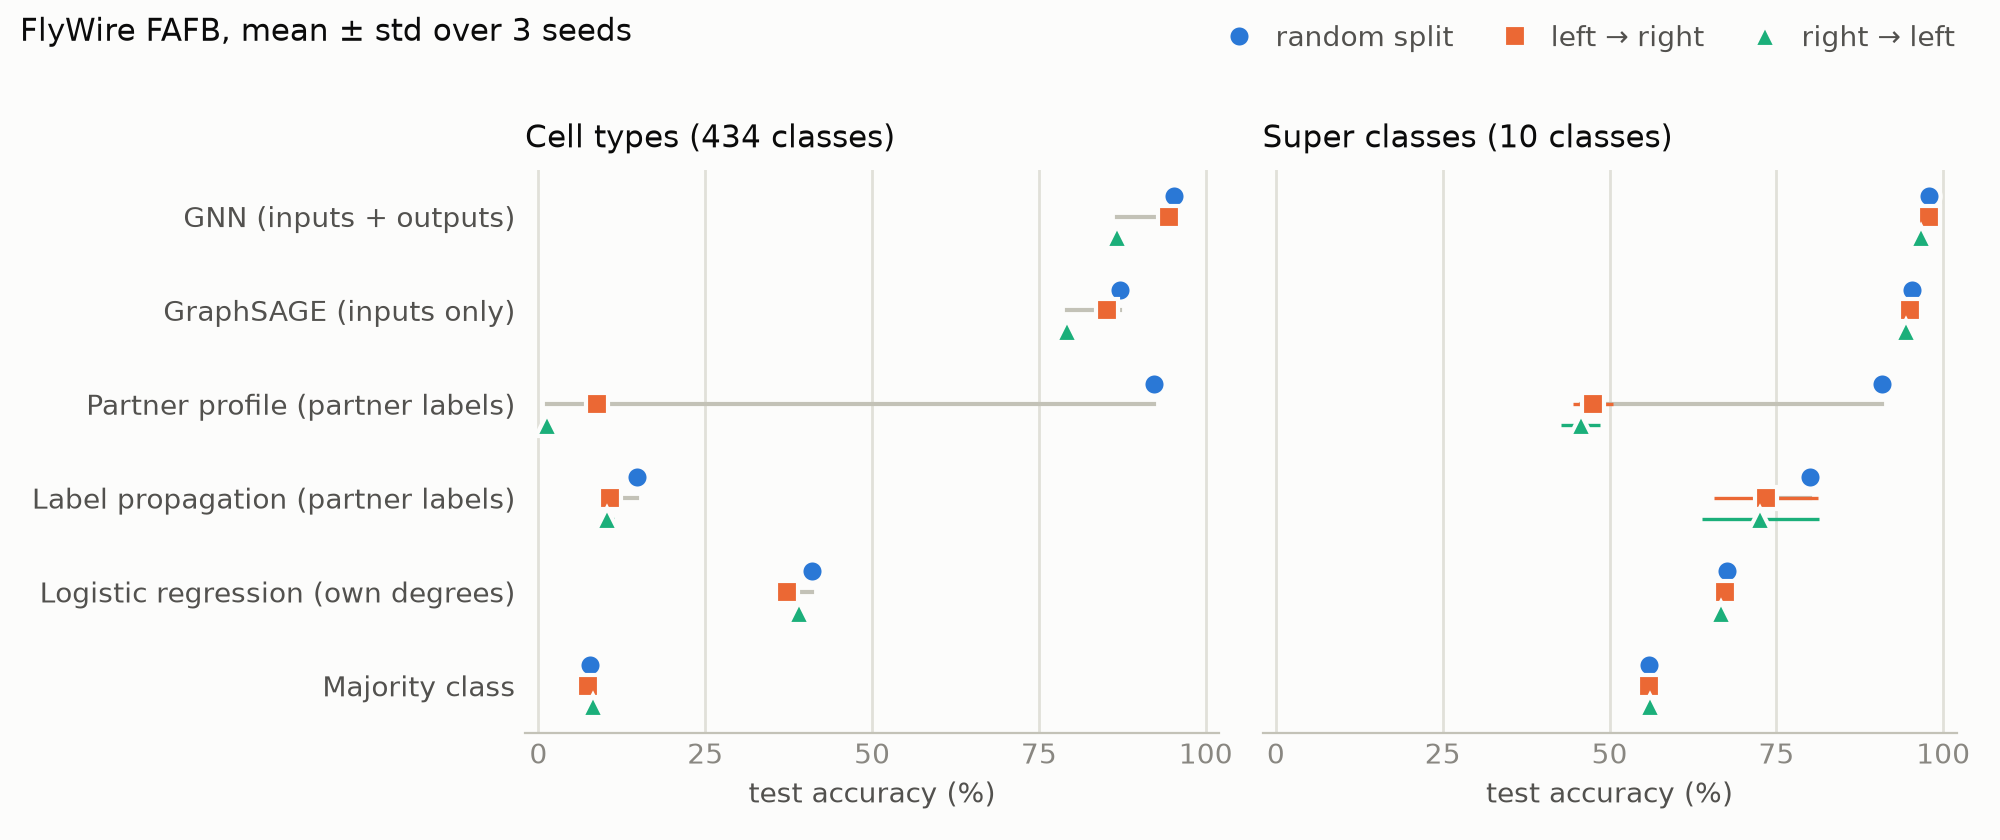
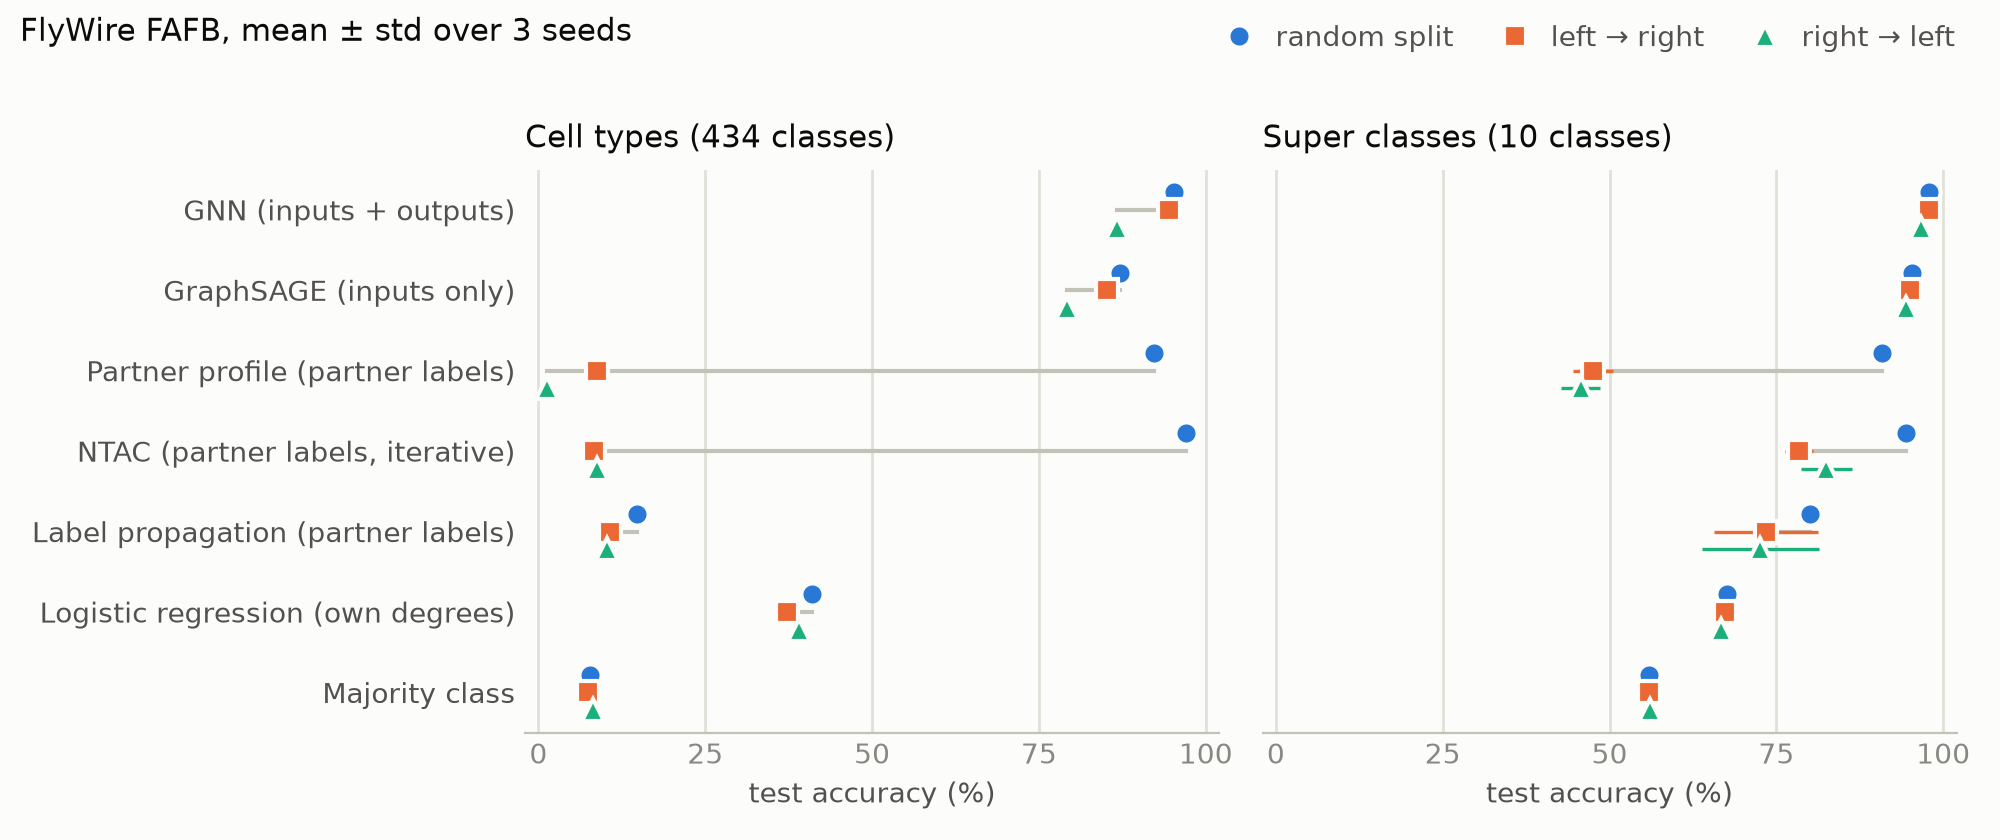
Report NTAC results in README, figure and literature review
On the random split NTAC is the best cell-type method (97.0 vs. 95.3 %
for the GNN, equal macro-F1); on an unlabeled hemisphere it drops to
8-9 % on cell types and 78-82 % on super classes (91 % at its best of 40
steps), while the GNN keeps 87-98 %. The README findings now say that
anonymous wiring comes close to partner identity rather than beating it,
cite Dir-SAGE for the layer and the known underdetection of photoreceptor
synapses for the right-to-left gap.

diff --git a/README.md b/README.md
@@ -26,8 +26,8 @@ FlyWire (FAFB) and MCNS data are released under CC-BY. Raw files are **not** in 
 
 - **Graph:** neurons are nodes; directed edges pre → post, weighted by synapse count (Codex FAFB v783, which keeps connections with ≥ 5 synapses). Raw tables are cleaned once and cached as Parquet.
 - **Labels:** `super_class` (10 classes) and `cell_type`, restricted to types with ≥ 20 neurons (434 types, 78 % of neurons).
-- **GNN** (`train_gnn.py`, model in `flybrain/models.py`): input features are six degree / synapse-count statistics per neuron, so the model sees anonymous wiring structure and never the labels of other neurons. Each layer averages separately over presynaptic inputs and postsynaptic outputs, weighted by synapse count. Configs: `configs/default.yaml` (super_class: 4 layers, 1000 epochs), `configs/cell_type.yaml` (3 layers, 300 epochs, class-weighted loss); depth and options were chosen on validation.
-- **Baselines** (`baselines.py`, `baseline_logreg.py`), ordered by the information they use: majority class; logistic regression on a neuron's own degree features; label propagation (connected neurons share a label); partner profile, i.e. logistic regression on the share of a neuron's synapses per partner class, using the labels of training neurons, which is what connectivity-based cell typing compares; plain GraphSAGE (inputs only, unweighted, same depth as the GNN).
+- **GNN** (`train_gnn.py`, model in `flybrain/models.py`): input features are six degree / synapse-count statistics per neuron, so the model sees anonymous wiring structure and never the labels of other neurons. Each layer averages separately over presynaptic inputs and postsynaptic outputs, weighted by synapse count; this is Dir-SAGE (Rossi et al., 2023) with synapse-weighted means. Configs: `configs/default.yaml` (super_class: 4 layers, 1000 epochs), `configs/cell_type.yaml` (3 layers, 300 epochs, class-weighted loss); depth and options were chosen on validation.
+- **Baselines** (`baselines.py`, `baseline_logreg.py`), ordered by the information they use: majority class; logistic regression on a neuron's own degree features; label propagation (connected neurons share a label); partner profile, i.e. logistic regression on the share of a neuron's synapses per partner class, using the labels of training neurons, which is what connectivity-based cell typing compares; NTAC (Schwartzman et al., 2026), which gives each neuron the label of the labeled neuron with the most similar partner-type synapse counts and then re-labels partners iteratively (memory-lean, deterministic reimplementation in `flybrain/ntac.py`, checked step by step against the `ntac` package); plain GraphSAGE (inputs only, unweighted, same depth as the GNN).
 - **Splits:** `random` (stratified 70 / 15 / 15) and `left_right` / `right_left` (train and validate on one hemisphere, test on the other).
 - **Model selection:** hyperparameters and the training epoch are chosen by validation macro-F1; the test set is only used for the final numbers.
 - **Benchmark:** `benchmark.py` runs every method on every label and split for three seeds and writes `results/benchmark/summary.md`. All runs log config, metrics and per-neuron predictions to `results/<run_name>/`.
@@ -53,11 +53,11 @@ CPU works by default; CUDA is used automatically when available.
 
 ## Results
 
-FlyWire FAFB v783, test accuracy (%) / macro-F1, mean ± std over 3 seeds, produced by `benchmark.py` (baselines on CPU at commit `2000b7b`, GNN rows on a Kaggle T4 GPU at `343125f`). Hemisphere columns: trained on the first hemisphere, tested on the second.
+FlyWire FAFB v783, test accuracy (%) / macro-F1, mean ± std over 3 seeds, produced by `benchmark.py` (baselines on CPU at commit `2000b7b`, NTAC on CPU at `c54198c`, GNN rows on a Kaggle T4 GPU at `343125f`). Hemisphere columns: trained on the first hemisphere, tested on the second.
 
 <picture>
   <source media="(prefers-color-scheme: dark)" srcset="docs/benchmark_dark.png">
-  <img alt="Test accuracy per method and split. The GNN stays at 87 to 98 percent on every split; the partner-profile baseline reaches 91 to 92 percent on the random split but falls to 1 to 9 percent (cell types) and about 46 percent (super classes) when tested on the unlabeled hemisphere." src="docs/benchmark_light.png">
+  <img alt="Test accuracy per method and split. The GNN stays at 87 to 98 percent on every split. Methods that read partner labels (partner profile, NTAC) reach 91 to 97 percent on the random split but fall to 1 to 9 percent on cell types and 46 to 82 percent on super classes when tested on the unlabeled hemisphere." src="docs/benchmark_light.png">
 </picture>
 
 Each dot is one split (mean over seeds, whiskers = std); the grey line spans a method's best and worst split. Figure: `experiments/b_gnn_celltypes/plot_benchmark.py`.
@@ -70,8 +70,9 @@ Each dot is one split (mean over seeds, whiskers = std); the grey line spans a m
 | Logistic regression (own degrees) | 40.9 ± 0.2 / 0.12 | 37.3 ± 0.0 / 0.09 | 39.0 ± 0.1 / 0.11 |
 | Label propagation | 14.7 ± 0.2 / 0.28 | 10.7 ± 1.0 / 0.19 | 10.3 ± 1.0 / 0.20 |
 | Partner profile (partner labels) | 92.2 ± 0.9 / 0.79 | 8.7 ± 0.0 / 0.10 | 1.2 ± 0.0 / 0.10 |
+| NTAC (partner labels, iterative) | **97.0 ± 0.2 / 0.93** | 8.4 ± 0.1 / 0.20 | 8.8 ± 0.5 / 0.19 |
 | GraphSAGE | 87.1 ± 0.3 / 0.77 | 85.2 ± 0.3 / 0.72 | 79.2 ± 0.2 / 0.69 |
-| **GNN (inputs + outputs, weighted)** | **95.3 ± 0.2 / 0.93** | **94.5 ± 0.9 / 0.90** | **86.7 ± 1.0 / 0.87** |
+| **GNN (inputs + outputs, weighted)** | 95.3 ± 0.2 / **0.93** | **94.5 ± 0.9 / 0.90** | **86.7 ± 1.0 / 0.87** |
 
 **super_class** (10 classes)
 
@@ -81,17 +82,20 @@ Each dot is one split (mean over seeds, whiskers = std); the grey line spans a m
 | Logistic regression (own degrees) | 67.6 ± 0.4 / 0.31 | 67.2 ± 0.0 / 0.32 | 66.7 ± 0.0 / 0.32 |
 | Label propagation | 80.1 ± 0.1 / 0.30 | 73.4 ± 7.8 / 0.22 | 72.6 ± 8.8 / 0.21 |
 | Partner profile (partner labels) | 90.9 ± 0.1 / 0.60 | 47.6 ± 3.0 / 0.28 | 45.7 ± 3.0 / 0.23 |
+| NTAC (partner labels, iterative) | 94.4 ± 0.3 / 0.78 | 78.4 ± 2.1 / 0.49 | 82.4 ± 3.8 / 0.58 |
 | GraphSAGE | 95.3 ± 0.0 / 0.62 | 95.1 ± 0.3 / 0.63 | 94.4 ± 0.2 / 0.63 |
 | **GNN (inputs + outputs, weighted)** | **97.9 ± 0.1 / 0.85** | **97.9 ± 0.1 / 0.84** | **96.6 ± 0.0 / 0.76** |
 
 Findings:
 
-- **Anonymous wiring identifies neurons better than partner identities do.** On cell types, the GNN beats the partner profile (95.3 vs. 92.2 %), most clearly on rare types (macro-F1 0.93 vs. 0.79), without seeing any partner's label.
-- **Only the anonymous model works on an unlabeled hemisphere.** In the hemisphere splits the median test neuron has no synapses to a labeled partner (optic-lobe circuits stay on their side), so the partner profile collapses, while the GNN keeps 87–98 %.
+- **With labeled partners, partner identity is hard to beat; anonymous wiring comes close.** On the random split NTAC is the best cell-type method (97.0 vs. 95.3 % for the GNN, equal macro-F1 0.93), while the GNN is best on super classes (97.9 vs. 94.4 %). The GNN gets there without seeing any partner's label.
+- **Only the anonymous model works on an unlabeled hemisphere.** In the hemisphere splits the median test neuron has no synapses to a labeled partner (optic-lobe circuits stay on their side), so the partner profile and NTAC collapse on cell types (1–9 %; NTAC stays below 9.4 % even at its best of 40 steps), while the GNN keeps 87–95 %. On super classes NTAC keeps 78–82 % with its validation-chosen step count and 91 % at its best step, still below the GNN's 97–98 %. Labels do spread across the midline, but only through the few cross-hemisphere connections.
 - **Seeing outputs matters most.** Averaging over postsynaptic partners as well as inputs adds 2–9 points accuracy and 0.13–0.23 macro-F1 over GraphSAGE of the same depth in every column. In the ablation (`ablation.py`), synapse weighting helps only cell types, and class weighting (with bidirectional aggregation) helps cell types but hurts super classes.
 - **Depth helps up to a point.** A third layer mainly separates sibling optic-lobe types (T4 / T5 subtypes, which differ in the motion direction they encode); a fourth helps only super classes, mostly their rare classes. Deeper models were not better on validation.
 - **Homophily explains little.** 71 % of synapses connect neurons of the same super class (35 % by chance), but only 3 % connect neurons of the same cell type (1.3 % by chance): the brain is wired heterophilously at the type level, so label propagation fails on cell types.
-- **Reconstruction differences hurt.** Right → left cell typing is 8 points below left → right, with 2 or 3 layers alike. The hemispheres differ in the number of connections per neuron for several optic-lobe types, and the errors concentrate there (photoreceptors R1-6 and lamina neurons). Per-hemisphere feature normalization and edge-dropping augmentation (`feature_norm`, `drop_edge`) did not close the gap, and neither did more depth.
+- **Reconstruction differences hurt.** Right → left cell typing is 8 points below left → right, with 2 or 3 layers alike. The hemispheres differ in the number of connections per neuron for several optic-lobe types, and the errors concentrate there (photoreceptors R1-6 and lamina neurons); outgoing photoreceptor synapses are known to be strongly underdetected in FlyWire (Matsliah et al., 2024). Per-hemisphere feature normalization and edge-dropping augmentation (`feature_norm`, `drop_edge`) did not close the gap, and neither did more depth.
+
+Related work and how this project relates to it: [docs/literature.md](docs/literature.md).
 
 ## Limitations
 

diff --git a/docs/literature.md b/docs/literature.md
@@ -8,8 +8,8 @@ Status: October 2026. Searched with alphaXiv (arXiv full text), bioRxiv, Semanti
 |---|---|---|
 | "Cell types can be recovered from connectivity alone" | **Taken.** NTAC (Schwartzman et al., 2026) does it on FlyWire with > 90 % (full brain) and > 95 % (visual system) accuracy; the optic-lobe types were *defined* this way (Matsliah et al., 2024). | Not a contribution. Cite as established. |
 | "Separate aggregation over inputs and outputs helps" | **Taken.** This is Dir-GNN / Dir-SAGE (Rossi et al., 2023), shown to help on heterophilic graphs. | Our `DirectedSAGE` is Dir-SAGE with synapse-weighted means. Cite it; do not present the architecture as new. |
-| "A GNN on anonymous structure, without any partner labels, matches or beats partner-label methods on FlyWire cell types" | **Open as far as we found.** NTAC and Matsliah use partner labels; NeuNet (Liao et al., 2024) reaches only 59 % on hemibrain from connectivity alone. | Core claim. Needs NTAC as a baseline. |
-| "Label-dependent methods fail on an unlabeled hemisphere, the anonymous model does not" | **Open.** NTAC reports results per dataset with seeds inside the same graph; no train/test separation by hemisphere or dataset. | Core claim. Must be tested against NTAC, which re-labels partners iteratively and may fail less than our one-pass partner profile. |
+| "A GNN on anonymous structure, without any partner labels, matches or beats partner-label methods on FlyWire cell types" | **Partly.** On the random split NTAC is better on cell types (97.0 vs. 95.3 %, equal macro-F1), the GNN on super classes (97.9 vs. 94.4 %). NeuNet (Liao et al., 2024) reaches only 59 % on hemibrain from connectivity alone. | Claim "comes close without partner labels", not "beats". |
+| "Label-dependent methods fail on an unlabeled hemisphere, the anonymous model does not" | **Tested, holds.** NTAC drops to 8–9 % on cell types (at most 9.4 % at any of 40 steps) and to 78–82 % on super classes (91 % at its best step); the GNN keeps 87–98 %. | Core claim, now against the published method. |
 | "Transfer of a cell-type model between connectomes (FAFB → MCNS)" | **Open as far as we found.** Cross-dataset typing so far uses matching (NBLAST, graph alignment, connectivity similarity), not a trained model applied to a new dataset. | Strongest possible contribution; the MCNS–FlyWire type mapping already exists. |
 | "Errors concentrate where reconstruction is less complete" | **Partly supported by the literature:** outgoing photoreceptor synapses are markedly underdetected in FlyWire (Matsliah et al., 2024). | Explains our R1-6 failures; cite it. The left/right difference in connection counts is our own observation. |
 
@@ -70,7 +70,7 @@ Status: October 2026. Searched with alphaXiv (arXiv full text), bioRxiv, Semanti
 
 ## 3. What this changes in our project
 
-1. **Add NTAC as a baseline** (`pip install ntac`), seeded with the same training labels, on all three splits. It is the method reviewers will compare against. Expectation to test, not assume: on the random split it should be strong; on the hemisphere split its iterative re-labelling may recover part of what our one-pass partner profile loses.
+1. **NTAC baseline: done** (`flybrain/ntac.py`, `baselines.py --method ntac`). The package needs two dense ~40 GB matrices on FlyWire, so it was reimplemented row by row; with one thread both agree exactly at every step. With several threads the package's similarity kernel writes to shared cells and its results vary from run to run, worth noting when citing it.
 2. **Rename and cite the architecture.** Describe `DirectedSAGE` as Dir-SAGE (Rossi et al., 2023) with synapse-weighted mean aggregation. Our contribution is the application and analysis, not the layer.
 3. **Frame the contribution as label-free identification and transfer:** the GNN needs no labeled partners in the target graph, which is what the hemisphere split and the MCNS transfer test.
 4. **Cite the photoreceptor synapse underdetection** (Matsliah et al., 2024) when discussing the right → left gap.
